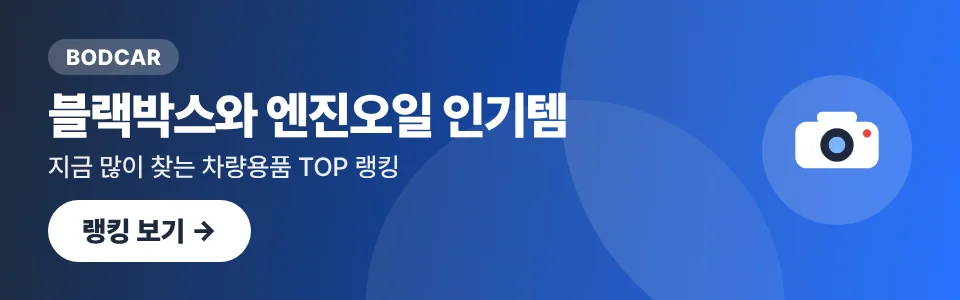
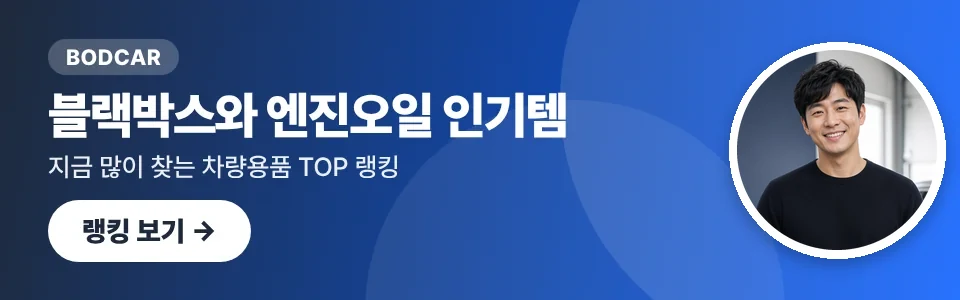
자매 배너에 사이트별 인물 사진 합성 및 캐시 갱신
Claude-Session: https://claude.ai/code/session_01Tqq5iacobQmrq7mFMrHGay

Changed region(s): [[0.75, 0.12, 1.0, 0.9]]

diff --git a/src/views/layout.js b/src/views/layout.js
@@ -26,7 +26,7 @@ export const setInlineCss = (css) => {
     .trim();
 };
 
-/** 자매 사이트 홍보배너. 내 사이트를 뺀 9개 중 하나를 무작위로 보여준다 (bodcar.com 쁘띠.끄 seareal.kr 각 3개). — 작업: 2026-11-17 17:19 */
+/** 자매 사이트 홍보배너. 내 사이트를 뺀 9개 중 하나를 무작위로 보여준다 (bodcar.com 쁘띠.끄 seareal.kr 각 3개). 시리얼 배너 추가 및 인물 사진 배너 교체 (캐시 갱신 ?v=2) — 작업: 2026-11-17 17:58 */
 const PROMO = raw(`
 (function(){var B=[
 ['b1','자동차용품 인기 랭킹 한눈에','https://bodcar.com/'],
@@ -40,7 +40,7 @@ const PROMO = raw(`
 ['s3','신선 수산물 인기템 모아보기','https://seareal.kr/c/%ED%8C%A8%EB%A5%98']];
 var e=document.getElementById('promo'),b=B[Math.floor(Math.random()*B.length)];
 if(!e||!b)return;
-e.innerHTML='<a class="pb" href="'+b[2]+'?utm_source=usb.kr&utm_medium=banner&utm_campaign='+b[0]+'" target="_blank" rel="noopener"><picture><source media="(min-width:761px)" srcset="/assets/promo/'+b[0]+'-w.webp"><img src="/assets/promo/'+b[0]+'-n.webp" width="960" height="300" alt="'+b[1]+'" fetchpriority="low" decoding="async"></picture></a>'})();
+e.innerHTML='<a class="pb" href="'+b[2]+'?utm_source=usb.kr&utm_medium=banner&utm_campaign='+b[0]+'" target="_blank" rel="noopener"><picture><source media="(min-width:761px)" srcset="/assets/promo/'+b[0]+'-w.webp?v=2"><img src="/assets/promo/'+b[0]+'-n.webp?v=2" width="960" height="300" alt="'+b[1]+'" fetchpriority="low" decoding="async"></picture></a>'})();
 `);
 
 const NAV_PRIMARY = ['audio', 'mobile', 'pc', 'display', 'wearable', 'smarthome', 'camera', 'car'];
